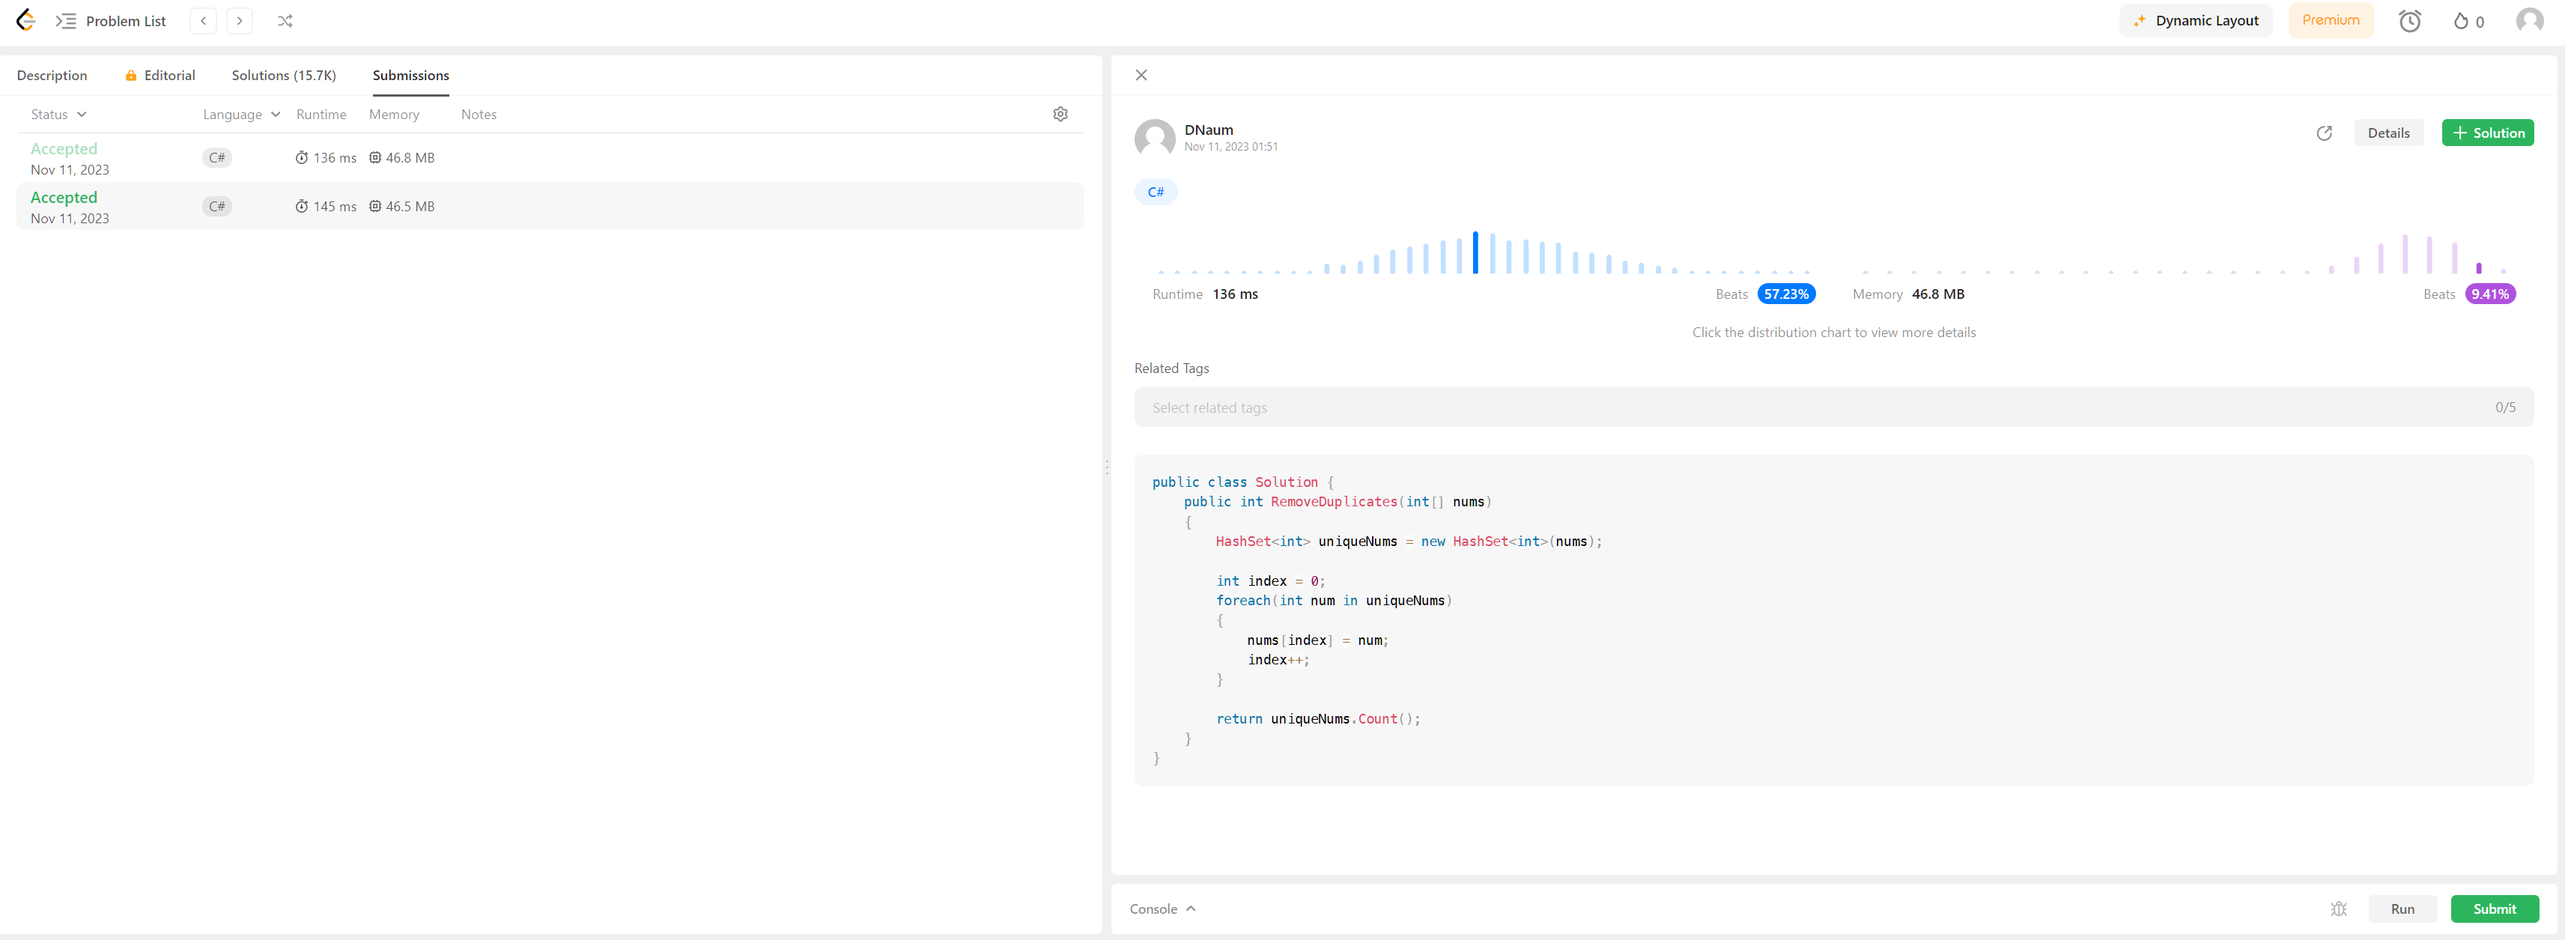
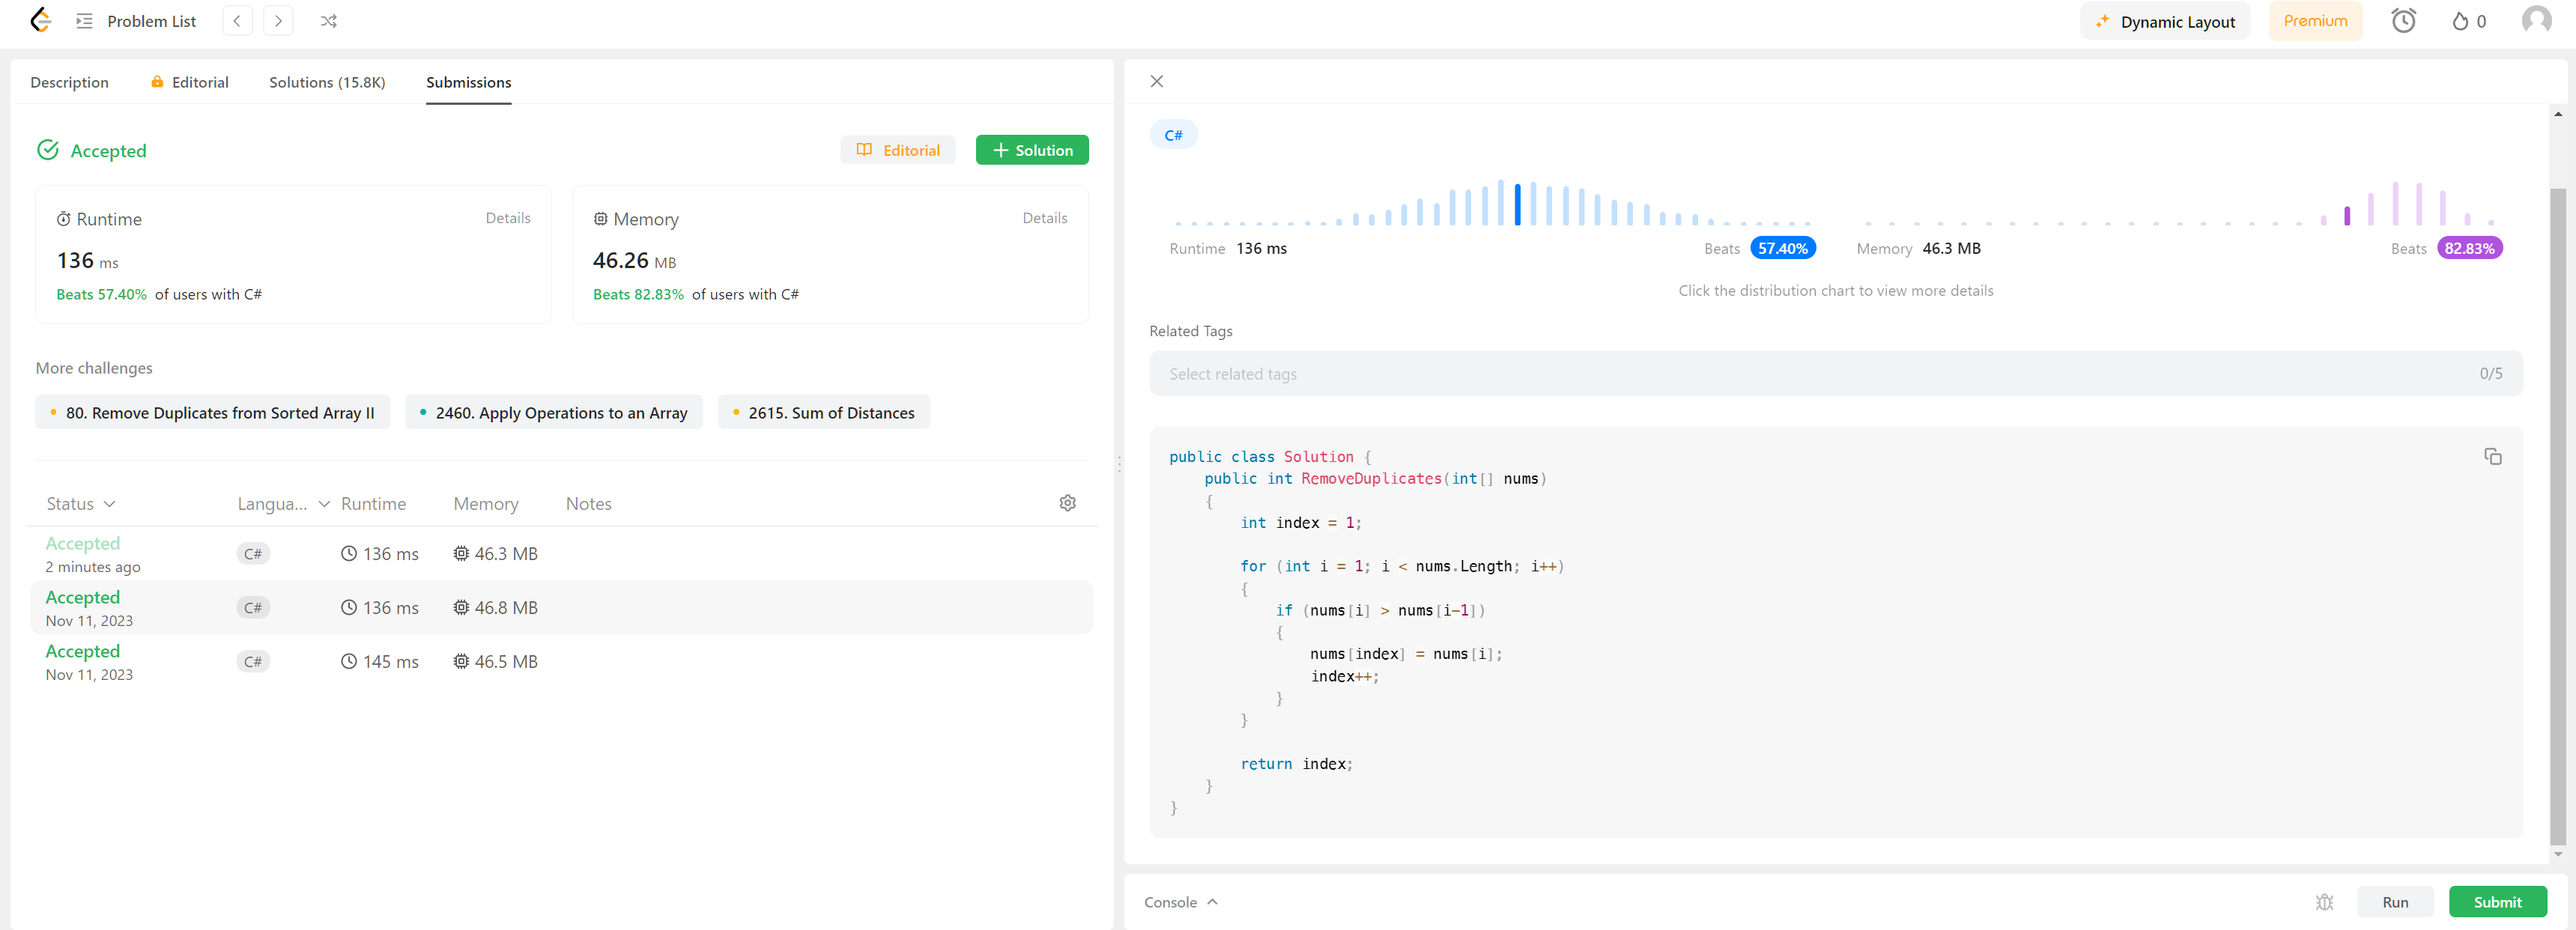
Solution using in-place swapping instead of HashSet approach. LC result screenshot updated.

diff --git a/ScnSoft-Education/LeetCodeTraining/RemoveDuplicates/RemoveDuplicatesSolution.cs b/ScnSoft-Education/LeetCodeTraining/RemoveDuplicates/RemoveDuplicatesSolution.cs
@@ -5,16 +5,18 @@
     {
         public static int RemoveDuplicates(int[] nums)
         {
-            HashSet<int> uniqueNums = new HashSet<int>(nums);
+            int index = 1;
 
-            int index = 0;
-            foreach (int num in uniqueNums)
+            for (int i = 1; i < nums.Length; i++)
             {
-                nums[index] = num;
-                index++;
+                if (nums[i] > nums[i - 1])
+                {
+                    nums[index] = nums[i];
+                    index++;
+                }
             }
 
-            return uniqueNums.Count();
+            return index;
         }
     }
 }

diff --git a/ScnSoft-Education/LeetCodeTraining.Tests/RemoveDuplicatesTests.cs b/ScnSoft-Education/LeetCodeTraining.Tests/RemoveDuplicatesTests.cs
@@ -7,7 +7,7 @@ namespace LeetCodeTraining.Tests
         [Theory]
         [InlineData(new int[] { 1, 1, 2 }, 2)]
         [InlineData(new int[] { 0, 0, 1, 1, 1, 2, 2, 3, 3, 4 }, 5)]
-        [InlineData(new int[] { 1, 2, 3 ,4, 5, 6, 7, 8, 9, 10 }, 10)]
+        [InlineData(new int[] { 1, 2, 3, 4, 5, 6, 7, 8, 9, 10 }, 10)]
         [InlineData(new int[] { 1 }, 1)]
         [InlineData(new int[] { 1, 1, 1, 1, 1, 1 }, 1)]
         public void RemoveDuplicatesTest(int[] nums, int expectedResult)
